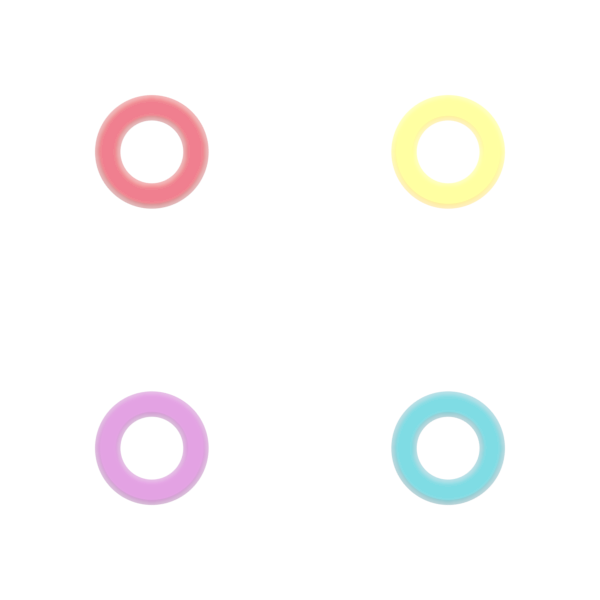
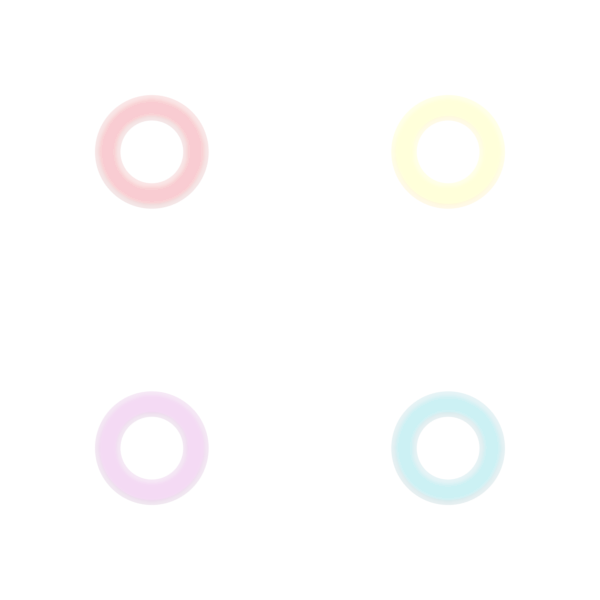
Fix issue with ring move preview display

diff --git a/src/components/FinityCanvas.js b/src/components/FinityCanvas.js
@@ -26,14 +26,6 @@ const finityCanvas = ({ app }) => {
       (img) => {
         imgs.st = img;
       });
-    p5.loadImage('img/base_posts.png',
-      (img) => {
-        imgs.bp = img;
-      });
-    p5.loadImage('img/blockers.png',
-      (img) => {
-        imgs.bl = img;
-      });
     p5.loadImage('img/indicator_black_side.png',
       (img) => {
         imgs.ind_side_b = img;
@@ -50,6 +42,22 @@ const finityCanvas = ({ app }) => {
       (img) => {
         imgs.ind_top_w = img;
       });
+    p5.loadImage('img/base_posts.png',
+      (img) => {
+        imgs.bp = img;
+      });
+    p5.loadImage('img/base_posts_preview.png',
+      (img) => {
+        imgs.bp_prev = img;
+      });
+    p5.loadImage('img/blockers.png',
+      (img) => {
+        imgs.bl = img;
+      });
+    p5.loadImage('img/blockers_preview.png',
+      (img) => {
+        imgs.bl_prev = img;
+      });
     p5.loadImage('img/rings_small.png',
       (img) => {
         imgs.rings_s = img;
@@ -62,26 +70,41 @@ const finityCanvas = ({ app }) => {
       (img) => {
         imgs.rings_m = img;
       });
+    p5.loadImage('img/rings_medium_preview.png',
+      (img) => {
+        imgs.rings_m_prev = img;
+      });
     p5.loadImage('img/rings_large.png',
       (img) => {
         imgs.rings_l = img;
+      });
+    p5.loadImage('img/rings_large_preview.png',
+      (img) => {
+        imgs.rings_l_prev = img;
       });
     p5.loadImage('img/arrow_black.png',
       (img) => {
         imgs.ab = img;
       });
+    p5.loadImage('img/arrow_black_preview.png',
+      (img) => {
+        imgs.ab_prev = img;
+      });
     p5.loadImage('img/arrow_white.png',
-    img => {
-      imgs.aw = img;
-    });
+      img => {
+        imgs.aw = img;
+      });
+    p5.loadImage('img/arrow_white_preview.png',
+      img => {
+        imgs.aw_prev = img;
+      });
   }
 
   const setup = (p5, canvasParentRef) => {
     if (!window.p5setup) {
       window.p5setup = true;
-      // use parent to render the canvas in this ref
-      // (without that p5 will render the canvas outside of your component)
-      p5.createCanvas(...field).parent(canvasParentRef);
+
+      const cnv = p5.createCanvas(...field).parent(canvasParentRef);
       p5.colorMode(p5.RGB, 1);
       p5.background(...BG_COLOR);
       p5.imageMode(p5.CENTER);
@@ -92,10 +115,22 @@ const finityCanvas = ({ app }) => {
       gm.place_ring('purple', "s", "1,1");
       gm.place_ring('red', "s", "-1,1");
       gm.place_ring('red', "m", "-1,1");
+      gm.place_ring('cyan', "s", "-1,-1");
+      gm.place_ring('cyan', "m", "-1,-1");
+      gm.place_ring('cyan', "l", "-1,-1");
       gm.place_arrow('b', "-1,0", "-1,1", "l");
       gm.place_arrow('b', "-1,1", "0,1", "m");
       gm.place_arrow('w', "1,1", "1,0", "r");
       gm.place_blocker('red', "0,-1", "0,0", "l");
+
+      // Define handlers on canvas rather than as props
+      // defining as props yields double event firing
+      cnv.mousePressed((_) => {
+        gm.handle_move_click();
+      });
+      cnv.mouseMoved((_) => {
+        move_preview = gm.generate_move_preview(p5.mouseX, p5.mouseY);
+      });
     }
   };
 
@@ -107,12 +142,9 @@ const finityCanvas = ({ app }) => {
     }
   }
 
-  const mouseMoved = (p5) => {
-      move_preview = gm.generate_move_preview(p5.mouseX, p5.mouseY);
-      gm.needs_redraw = true;
-  };
-
-  return <Sketch setup={setup} draw={draw} mouseMoved={mouseMoved} preload={preload}/>;
+  return <Sketch setup={setup} 
+                draw={draw} 
+                preload={preload}/>;
 };
 
 export default finityCanvas;

diff --git a/src/services/game_manager.js b/src/services/game_manager.js
@@ -31,6 +31,7 @@ class GameManager {
     }
     this.player_moving = null;
     this.move_in_progress = false;
+    this.move_to_finalize = null;
     this.needs_redraw = true;
   }
 
@@ -64,8 +65,12 @@ class GameManager {
     
   }
 
-  place_ring(color, size, station) {
-    let ring = new Ring(color, size, this.board.stations[station]);
+  place_ring(color, size, station, ring) {
+    if (!ring) {
+      // console.log("Creating a ring from scratch")
+      ring = new Ring(color, size, this.board.stations[station]);
+    }
+    // console.log(this.game_state);
     this.game_state.rings.push(ring);
     this.board.stations[station].rings.push(ring);
   }
@@ -109,6 +114,9 @@ class GameManager {
       base_posts.push(new BasePost(color, this.board.stations[
         this.board.start_stations[ind]
       ]));
+      this.board.stations[
+        this.board.start_stations[ind]
+      ].base_post = color;
     });
     return base_posts;
   }
@@ -144,6 +152,7 @@ class GameManager {
   }
 
   start_move(player, move_type) {
+    console.log(`starting ${move_type} move for ${player}`)
     this.player_moving = player;
     this.move_in_progress = move_type;
 
@@ -156,15 +165,42 @@ class GameManager {
       let preview = null;
       Object.keys(this.board.stations).forEach( stat_key => {
         let station = this.board.stations[stat_key];
-        if (Math.abs(mouse_x - station.x) < 50 && 
-            Math.abs(mouse_y - station.y) < 50) {
-             let preview_ring = new Ring(this.player_moving, 's', station);
-             preview = preview_ring;
-        } 
+        if (Math.abs(mouse_x - station.x) < 30 && 
+            Math.abs(mouse_y - station.y) < 30) {
+              if (this.can_place_ring(station, this.player_moving)) {
+                let size = 's';
+                if (station.rings.length === 1) {
+                  size = 'm';
+                } else if (station.rings.length === 2) {
+                  size = 'l';
+                }
+                let preview_ring = new Ring(this.player_moving, size, station);
+                preview = preview_ring;
+            }
+        }
       });
+      this.needs_redraw = true;
       return preview;
     }
+  }
 
+  can_place_ring(station, color) {
+    return ((station.rings.length < 3) && 
+            (station.base_post !== color))
+  }
+
+  handle_move_click() {
+    if (this.move_to_finalize) {
+      if (this.move_to_finalize.constructor.name === 'Ring') {
+        this.place_ring(null, null, null, this.move_to_finalize);
+
+        // this.move_in_progress = false;
+        // this.move_to_finalize = null;
+
+        this.app.setState({});
+        this.needs_redraw = true;
+      }
+    }
   }
 }
 

diff --git a/src/services/display_handler.js b/src/services/display_handler.js
@@ -1,4 +1,3 @@
-import Ring from './ring.js';
 
 class DisplayHandler {
     constructor(p5, imgs, BG_COLOR) {
@@ -115,7 +114,6 @@ class DisplayHandler {
 
     draw_blocker(blocker) {
       let blocker_img = this.imgs.bl;
-      //blocker_img.resize(90, 90);
       let xpos = (blocker.from_station.x + blocker.to_station.x)/2;
       let ypos = (blocker.from_station.y + blocker.to_station.y)/2;
       let rise = blocker.from_station.y - blocker.to_station.y;
@@ -138,7 +136,6 @@ class DisplayHandler {
     }
 
     draw_move_preview(ring) {
-      // this.p5.tint(1., .5);
       this.p5.image(
         this.imgs['rings_'+ring.size+'_prev'],
         ring.station.x,
@@ -146,7 +143,6 @@ class DisplayHandler {
         100,
         100,
         ...this.color_crops[ring.color]);
-      this.p5.tint(1., 1.);
     }
 
     slot_offset(slot) {

diff --git a/src/components/HumanControlPanel.js b/src/components/HumanControlPanel.js
@@ -1,9 +1,6 @@
-import { useState } from 'react';
 import Form from 'react-bootstrap/Form';
 
 const HumanControlPanel = ({ player, gm }) => {
-  const [move, setMove] = useState(null);
-
   return (
     <div id={ player } className="player-controls">
       <Form.Select 
@@ -21,6 +18,7 @@ const HumanControlPanel = ({ player, gm }) => {
         <option value="rev-arrow">Reverse Arrow</option>
         <option value="rem-arrow">Remove Arrow</option>
         <option value="opp-blocker">Remove Opponent's Blocker</option>
+        <option value="concede">Concede the Game</option>
       </Form.Select>
       {
         (gm.player_moving === player && 

diff --git a/public/index.html b/public/index.html
@@ -21,6 +21,7 @@
       integrity="sha384-rbsA2VBKQhggwzxH7pPCaAqO46MgnOM80zW1RWuH61DGLwZJEdK2Kadq2F9CUG65"
       crossorigin="anonymous"
     />
+    <!-- <script src="https://cdnjs.cloudflare.com/ajax/libs/p5.js/1.6.0/p5.min.js" integrity="sha512-3RlxD1bW34eFKPwj9gUXEWtdSMC59QqIqHnD8O/NoTwSJhgxRizdcFVQhUMFyTp5RwLTDL0Lbcqtl8b7bFAzog==" crossorigin="anonymous" referrerpolicy="no-referrer"></script> -->
     <!--
       Notice the use of %PUBLIC_URL% in the tags above.
       It will be replaced with the URL of the `public` folder during the build.

diff --git a/src/services/station.js b/src/services/station.js
@@ -6,6 +6,7 @@ class Station {
     this.y = pos[1];
     this.size = size;
     this.rings = [];
+    this.base_post = null;
     this.slots = [// clockwise from top
       [ null, null, null ], // left to right (clockwise)
       [ null, null, null ],
